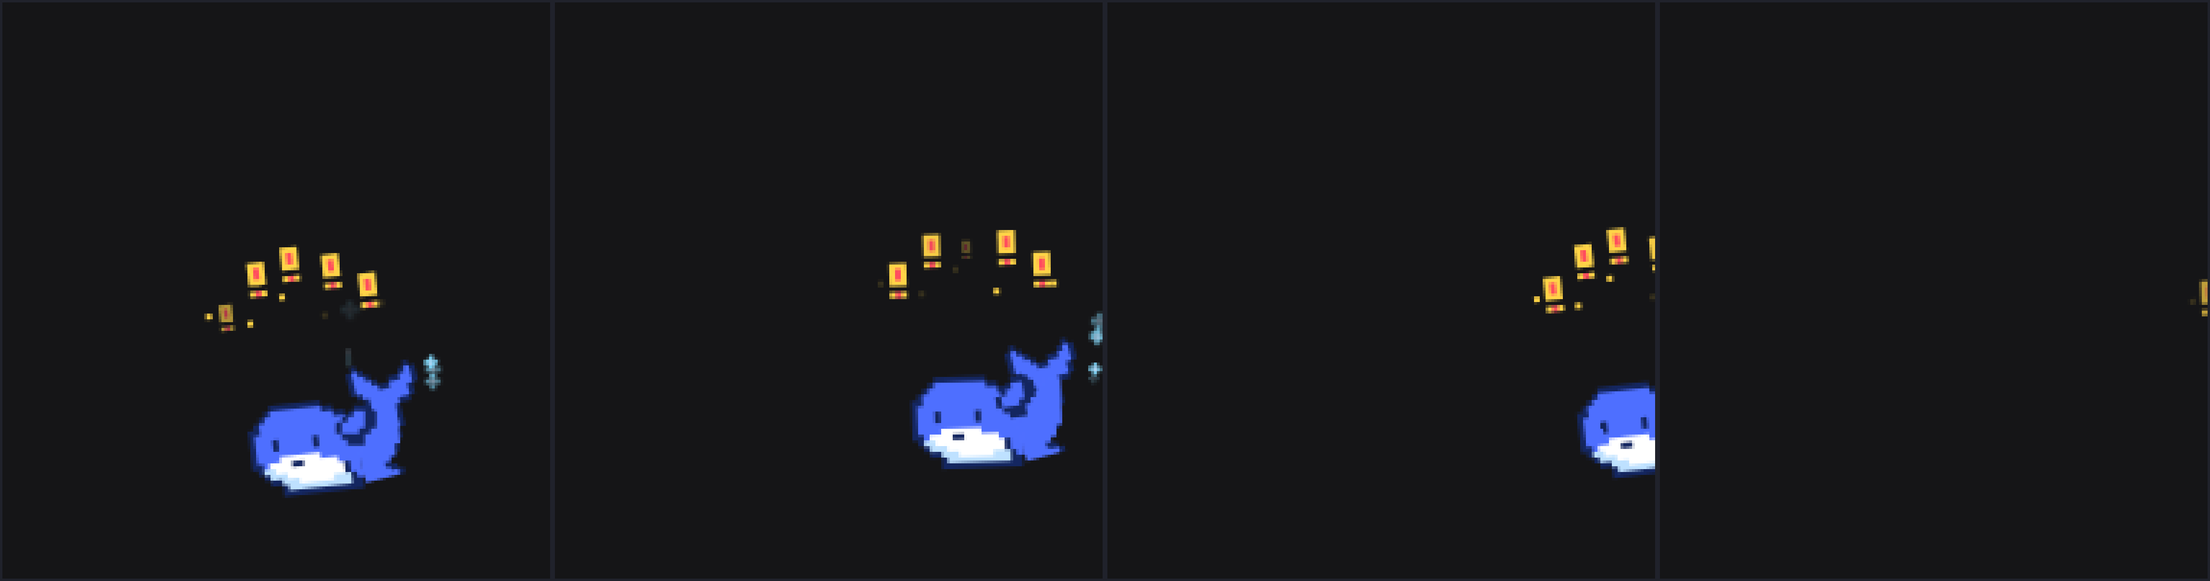
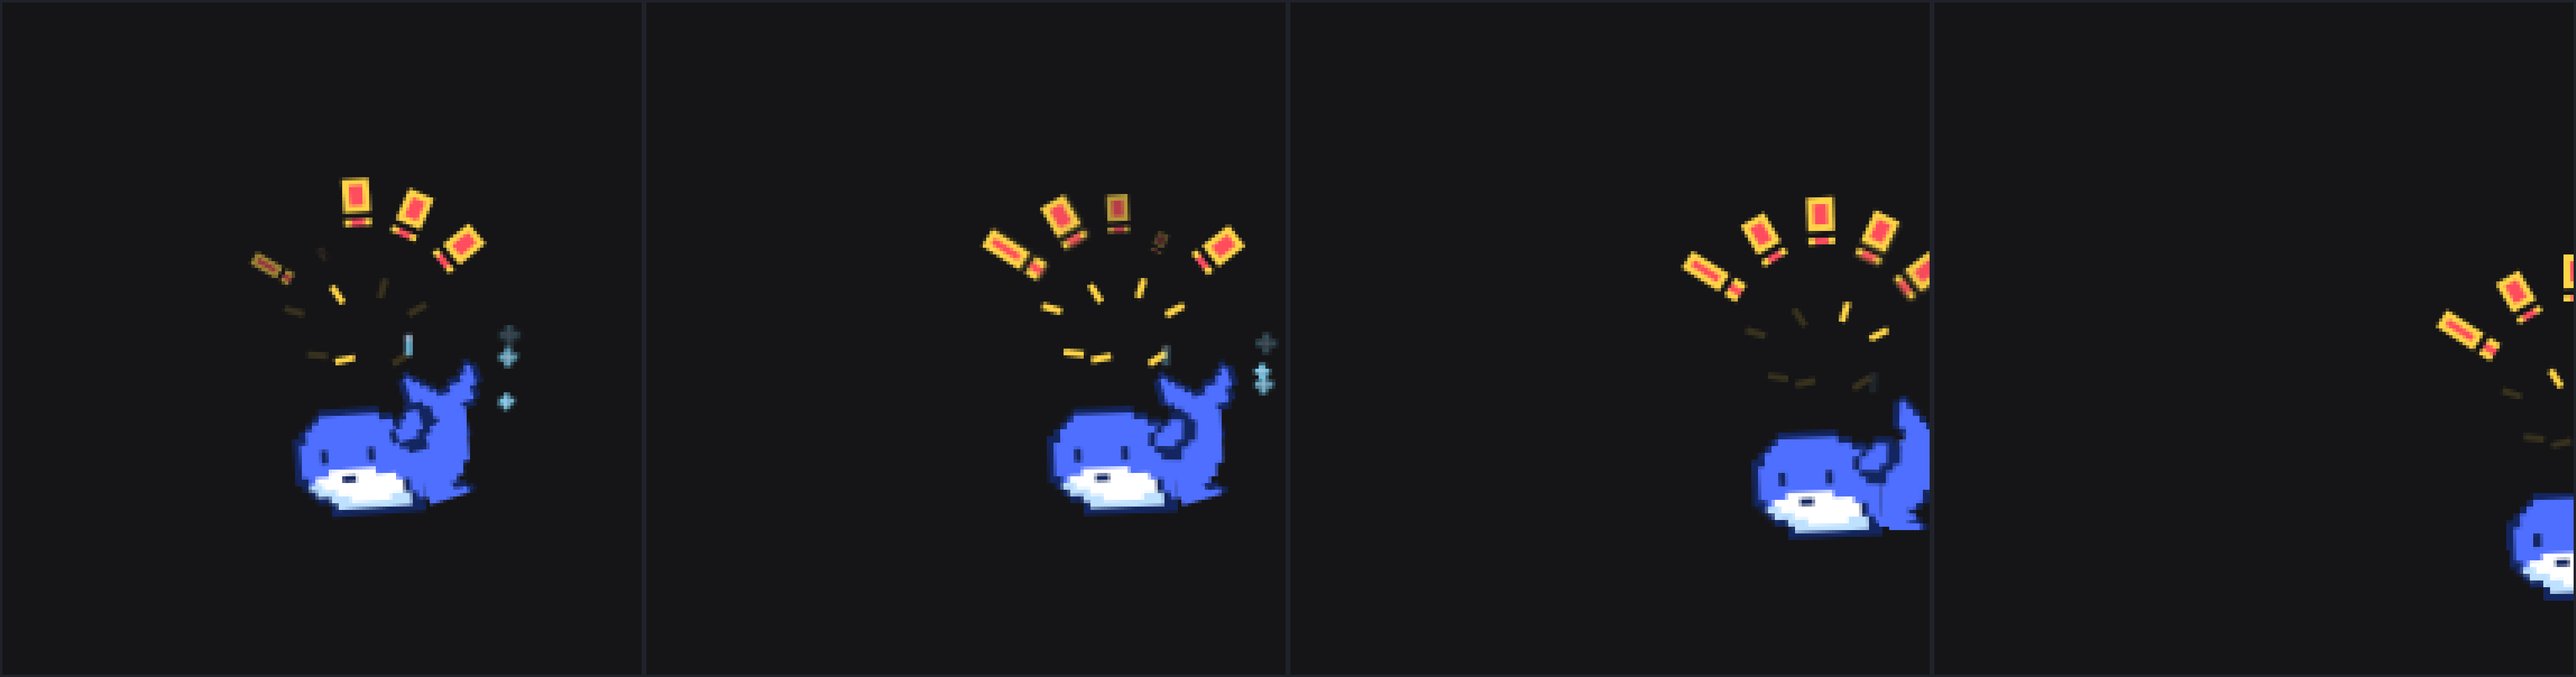
waiting: radial exclamation burst closer to the reference

diff --git a/client.js b/client.js
@@ -232,10 +232,11 @@ const ART = {
 .dsh-whale.is-waiting .dw-alert { animation: dw-alert-pop 1.6s ease-out infinite; animation-delay: var(--ad, 0s); transform-box: fill-box; transform-origin: center; }
 .dsh-whale.is-waiting .dw-alert-spark { animation: dw-alert-spark 1.1s steps(1, end) infinite; animation-delay: var(--ad, 0s); }
 @keyframes dw-alert-pop {
-  0% { opacity: 0; transform: translate(0, 6px) rotate(0deg) scale(0.25); }
-  18% { opacity: 1; transform: translate(0, 0) rotate(0deg) scale(1); }
-  62% { opacity: 1; transform: translate(calc(var(--ax, 0px) * 0.7), calc(var(--ay, 0px) * 0.7)) rotate(var(--ar, 0deg)) scale(1); }
-  100% { opacity: 0; transform: translate(var(--ax, 0px), var(--ay, 0px)) rotate(var(--ar, 0deg)) scale(0.9); }
+  0% { opacity: 0; transform: translate(0, 12px) scale(0.2); }
+  22% { opacity: 1; transform: translate(0, 0) scale(1.05); }
+  30% { transform: translate(0, -1px) scale(1); }
+  72% { opacity: 1; transform: translate(0, -3px) scale(1); }
+  100% { opacity: 0; transform: translate(0, -8px) scale(1.04); }
 }
 @keyframes dw-alert-spark {
   0%, 100% { opacity: 0.15; }
@@ -620,7 +621,7 @@ const ART = {
     <g id="dw-mouth-happy" class="dw-alt dw-on-done dw-on-music dw-on-splash dw-on-hop"><rect x="30" y="76" width="2" height="2" fill="#142660"/><rect x="32" y="78" width="2" height="2" fill="#142660"/><rect x="34" y="76" width="2" height="2" fill="#142660"/></g>
     <g id="dw-mouth-frown" class="dw-alt dw-on-error"><rect x="28" y="78" width="2" height="2" fill="#142660"/><rect x="30" y="76" width="4" height="2" fill="#142660"/><rect x="34" y="78" width="2" height="2" fill="#142660"/></g>
     <g id="dw-mouth-o" class="dw-alt dw-on-poke"><rect x="30" y="76" width="4" height="4" fill="#142660"/></g>
-    <g id="dw-alerts" class="dw-only dw-on-waiting"><rect class="dw-alert-spark" x="6" y="22" width="2" height="2" fill="#FFD447" style="--ad:0.10s"/><rect class="dw-alert-spark" x="20" y="26" width="2" height="2" fill="#FFD447" style="--ad:0.30s"/><rect class="dw-alert-spark" x="32" y="18" width="2" height="2" fill="#FFD447" style="--ad:0.50s"/><rect class="dw-alert-spark" x="46" y="26" width="2" height="2" fill="#FFD447" style="--ad:0.70s"/><rect class="dw-alert-spark" x="66" y="24" width="2" height="2" fill="#FFD447" style="--ad:0.90s"/><rect class="dw-alert-spark" x="24" y="12" width="2" height="2" fill="#FFD447" style="--ad:0.20s"/><g transform="translate(10 16)"><g class="dw-alert" style="--ad:0s;--ax:-3px;--ay:-10px;--ar:-32degdeg"><path d="M0 0h6v8h-6zM0 10h6v2h-6z" fill="#FFD447"/><path d="M2 2h2v4h-2zM2 10h2v2h-2z" fill="#FF4D5E"/></g></g><g transform="translate(22 6)"><g class="dw-alert" style="--ad:0.18s;--ax:-1px;--ay:-16px;--ar:-12degdeg"><path d="M0 0h6v8h-6zM0 10h6v2h-6z" fill="#FFD447"/><path d="M2 2h2v4h-2zM2 10h2v2h-2z" fill="#FF4D5E"/></g></g><g transform="translate(34 2)"><g class="dw-alert" style="--ad:0.36s;--ax:2px;--ay:-18px;--ar:6degdeg"><path d="M0 0h6v8h-6zM0 10h6v2h-6z" fill="#FFD447"/><path d="M2 2h2v4h-2zM2 10h2v2h-2z" fill="#FF4D5E"/></g></g><g transform="translate(48 6)"><g class="dw-alert" style="--ad:0.54s;--ax:5px;--ay:-14px;--ar:22degdeg"><path d="M0 0h6v8h-6zM0 10h6v2h-6z" fill="#FFD447"/><path d="M2 2h2v4h-2zM2 10h2v2h-2z" fill="#FF4D5E"/></g></g><g transform="translate(60 14)"><g class="dw-alert" style="--ad:0.72s;--ax:8px;--ay:-8px;--ar:40degdeg"><path d="M0 0h6v8h-6zM0 10h6v2h-6z" fill="#FFD447"/><path d="M2 2h2v4h-2zM2 10h2v2h-2z" fill="#FF4D5E"/></g></g></g><g id="dw-wavefin" class="dw-only dw-on-waiting"><path d="M52 58h6v2h-6zM50 60h2v2h-2zM56 60h4v6h-4zM48 62h2v2h-2zM46 64h2v4h-2zM54 66h4v2h-4zM48 68h8v2h-8zM50 70h6v2h-6z" fill="#142660"/><path d="M52 60h4v6h-4zM50 62h2v6h-2zM48 64h2v4h-2zM52 66h2v2h-2z" fill="#4E6FFF"/></g>
+    <g id="dw-alerts" class="dw-only dw-on-waiting"><rect class="dw-alert-spark" x="16" y="26" width="2" height="6" fill="#FFD447" transform="rotate(-70 16 26)" style="--ad:0.20s"/><rect class="dw-alert-spark" x="30" y="20" width="2" height="6" fill="#FFD447" transform="rotate(-30 30 20)" style="--ad:0.00s"/><rect class="dw-alert-spark" x="46" y="18" width="2" height="6" fill="#FFD447" transform="rotate(20 46 18)" style="--ad:0.40s"/><rect class="dw-alert-spark" x="58" y="26" width="2" height="6" fill="#FFD447" transform="rotate(65 58 26)" style="--ad:0.40s"/><rect class="dw-alert-spark" x="36" y="40" width="2" height="6" fill="#FFD447" transform="rotate(80 36 40)" style="--ad:0.10s"/><rect class="dw-alert-spark" x="22" y="40" width="2" height="6" fill="#FFD447" transform="rotate(-80 22 40)" style="--ad:0.20s"/><rect class="dw-alert-spark" x="52" y="40" width="2" height="6" fill="#FFD447" transform="rotate(60 52 40)" style="--ad:0.20s"/><g transform="translate(18 16) rotate(-55)"><g class="dw-alert" style="--ad:0s"><path d="M-3 -20h6v13h-6zM-3 -5h6v4h-6z" fill="#FFD447"/><path d="M-1 -18h2v9h-2zM-1 -5h2v4h-2z" fill="#FF4D5E"/></g></g><g transform="translate(28 8) rotate(-28)"><g class="dw-alert" style="--ad:0.12s"><path d="M-4 -16h8v10h-8zM-4 -4h8v2h-8z" fill="#FFD447"/><path d="M-2 -14h4v6h-4zM-2 -4h4v2h-4z" fill="#FF4D5E"/></g></g><g transform="translate(40 4) rotate(0)"><g class="dw-alert" style="--ad:0.24s"><path d="M-4 -16h8v10h-8zM-4 -4h8v2h-8z" fill="#FFD447"/><path d="M-2 -14h4v6h-4zM-2 -4h4v2h-4z" fill="#FF4D5E"/></g></g><g transform="translate(52 8) rotate(28)"><g class="dw-alert" style="--ad:0.36s"><path d="M-4 -16h8v10h-8zM-4 -4h8v2h-8z" fill="#FFD447"/><path d="M-2 -14h4v6h-4zM-2 -4h4v2h-4z" fill="#FF4D5E"/></g></g><g transform="translate(62 16) rotate(55)"><g class="dw-alert" style="--ad:0.48s"><path d="M-4 -16h8v10h-8zM-4 -4h8v2h-8z" fill="#FFD447"/><path d="M-2 -14h4v6h-4zM-2 -4h4v2h-4z" fill="#FF4D5E"/></g></g></g><g id="dw-wavefin" class="dw-only dw-on-waiting"><path d="M52 58h6v2h-6zM50 60h2v2h-2zM56 60h4v6h-4zM48 62h2v2h-2zM46 64h2v4h-2zM54 66h4v2h-4zM48 68h8v2h-8zM50 70h6v2h-6z" fill="#142660"/><path d="M52 60h4v6h-4zM50 62h2v6h-2zM48 64h2v4h-2zM52 66h2v2h-2z" fill="#4E6FFF"/></g>
     
     
     <g id="dw-hat" class="dw-only dw-on-tool"><path d="M30 36h10v20h-10zM26 38h4v18h-4zM40 38h4v18h-4zM22 40h4v16h-4zM44 40h2v16h-2zM18 42h4v14h-4zM46 42h2v14h-2zM16 44h2v12h-2zM48 44h2v12h-2zM14 48h2v8h-2zM50 48h2v8h-2zM12 52h2v4h-2zM52 52h2v4h-2z" fill="#FFFFFF"/><path d="M30 38h10v16h-10zM26 40h4v14h-4zM40 40h4v14h-4zM22 42h4v12h-4zM44 42h2v12h-2zM18 44h4v10h-4zM46 44h2v10h-2zM16 48h2v6h-2zM48 48h2v6h-2zM14 52h2v2h-2zM50 52h2v2h-2z" fill="#FFD447"/><rect x="30" y="38" width="4" height="10" fill="#FFFFFF"/><rect x="42" y="44" width="4" height="8" fill="#F2A20C"/><rect x="14" y="52" width="10" height="2" fill="#F2A20C"/><rect x="14" y="54" width="2" height="2" fill="#F2A20C"/><rect x="48" y="54" width="2" height="2" fill="#F2A20C"/></g>

diff --git a/src/art.js b/src/art.js
@@ -222,10 +222,11 @@ const ART = {
 .dsh-whale.is-waiting .dw-alert { animation: dw-alert-pop 1.6s ease-out infinite; animation-delay: var(--ad, 0s); transform-box: fill-box; transform-origin: center; }
 .dsh-whale.is-waiting .dw-alert-spark { animation: dw-alert-spark 1.1s steps(1, end) infinite; animation-delay: var(--ad, 0s); }
 @keyframes dw-alert-pop {
-  0% { opacity: 0; transform: translate(0, 6px) rotate(0deg) scale(0.25); }
-  18% { opacity: 1; transform: translate(0, 0) rotate(0deg) scale(1); }
-  62% { opacity: 1; transform: translate(calc(var(--ax, 0px) * 0.7), calc(var(--ay, 0px) * 0.7)) rotate(var(--ar, 0deg)) scale(1); }
-  100% { opacity: 0; transform: translate(var(--ax, 0px), var(--ay, 0px)) rotate(var(--ar, 0deg)) scale(0.9); }
+  0% { opacity: 0; transform: translate(0, 12px) scale(0.2); }
+  22% { opacity: 1; transform: translate(0, 0) scale(1.05); }
+  30% { transform: translate(0, -1px) scale(1); }
+  72% { opacity: 1; transform: translate(0, -3px) scale(1); }
+  100% { opacity: 0; transform: translate(0, -8px) scale(1.04); }
 }
 @keyframes dw-alert-spark {
   0%, 100% { opacity: 0.15; }
@@ -610,7 +611,7 @@ const ART = {
     <g id="dw-mouth-happy" class="dw-alt dw-on-done dw-on-music dw-on-splash dw-on-hop"><rect x="30" y="76" width="2" height="2" fill="#142660"/><rect x="32" y="78" width="2" height="2" fill="#142660"/><rect x="34" y="76" width="2" height="2" fill="#142660"/></g>
     <g id="dw-mouth-frown" class="dw-alt dw-on-error"><rect x="28" y="78" width="2" height="2" fill="#142660"/><rect x="30" y="76" width="4" height="2" fill="#142660"/><rect x="34" y="78" width="2" height="2" fill="#142660"/></g>
     <g id="dw-mouth-o" class="dw-alt dw-on-poke"><rect x="30" y="76" width="4" height="4" fill="#142660"/></g>
-    <g id="dw-alerts" class="dw-only dw-on-waiting"><rect class="dw-alert-spark" x="6" y="22" width="2" height="2" fill="#FFD447" style="--ad:0.10s"/><rect class="dw-alert-spark" x="20" y="26" width="2" height="2" fill="#FFD447" style="--ad:0.30s"/><rect class="dw-alert-spark" x="32" y="18" width="2" height="2" fill="#FFD447" style="--ad:0.50s"/><rect class="dw-alert-spark" x="46" y="26" width="2" height="2" fill="#FFD447" style="--ad:0.70s"/><rect class="dw-alert-spark" x="66" y="24" width="2" height="2" fill="#FFD447" style="--ad:0.90s"/><rect class="dw-alert-spark" x="24" y="12" width="2" height="2" fill="#FFD447" style="--ad:0.20s"/><g transform="translate(10 16)"><g class="dw-alert" style="--ad:0s;--ax:-3px;--ay:-10px;--ar:-32degdeg"><path d="M0 0h6v8h-6zM0 10h6v2h-6z" fill="#FFD447"/><path d="M2 2h2v4h-2zM2 10h2v2h-2z" fill="#FF4D5E"/></g></g><g transform="translate(22 6)"><g class="dw-alert" style="--ad:0.18s;--ax:-1px;--ay:-16px;--ar:-12degdeg"><path d="M0 0h6v8h-6zM0 10h6v2h-6z" fill="#FFD447"/><path d="M2 2h2v4h-2zM2 10h2v2h-2z" fill="#FF4D5E"/></g></g><g transform="translate(34 2)"><g class="dw-alert" style="--ad:0.36s;--ax:2px;--ay:-18px;--ar:6degdeg"><path d="M0 0h6v8h-6zM0 10h6v2h-6z" fill="#FFD447"/><path d="M2 2h2v4h-2zM2 10h2v2h-2z" fill="#FF4D5E"/></g></g><g transform="translate(48 6)"><g class="dw-alert" style="--ad:0.54s;--ax:5px;--ay:-14px;--ar:22degdeg"><path d="M0 0h6v8h-6zM0 10h6v2h-6z" fill="#FFD447"/><path d="M2 2h2v4h-2zM2 10h2v2h-2z" fill="#FF4D5E"/></g></g><g transform="translate(60 14)"><g class="dw-alert" style="--ad:0.72s;--ax:8px;--ay:-8px;--ar:40degdeg"><path d="M0 0h6v8h-6zM0 10h6v2h-6z" fill="#FFD447"/><path d="M2 2h2v4h-2zM2 10h2v2h-2z" fill="#FF4D5E"/></g></g></g><g id="dw-wavefin" class="dw-only dw-on-waiting"><path d="M52 58h6v2h-6zM50 60h2v2h-2zM56 60h4v6h-4zM48 62h2v2h-2zM46 64h2v4h-2zM54 66h4v2h-4zM48 68h8v2h-8zM50 70h6v2h-6z" fill="#142660"/><path d="M52 60h4v6h-4zM50 62h2v6h-2zM48 64h2v4h-2zM52 66h2v2h-2z" fill="#4E6FFF"/></g>
+    <g id="dw-alerts" class="dw-only dw-on-waiting"><rect class="dw-alert-spark" x="16" y="26" width="2" height="6" fill="#FFD447" transform="rotate(-70 16 26)" style="--ad:0.20s"/><rect class="dw-alert-spark" x="30" y="20" width="2" height="6" fill="#FFD447" transform="rotate(-30 30 20)" style="--ad:0.00s"/><rect class="dw-alert-spark" x="46" y="18" width="2" height="6" fill="#FFD447" transform="rotate(20 46 18)" style="--ad:0.40s"/><rect class="dw-alert-spark" x="58" y="26" width="2" height="6" fill="#FFD447" transform="rotate(65 58 26)" style="--ad:0.40s"/><rect class="dw-alert-spark" x="36" y="40" width="2" height="6" fill="#FFD447" transform="rotate(80 36 40)" style="--ad:0.10s"/><rect class="dw-alert-spark" x="22" y="40" width="2" height="6" fill="#FFD447" transform="rotate(-80 22 40)" style="--ad:0.20s"/><rect class="dw-alert-spark" x="52" y="40" width="2" height="6" fill="#FFD447" transform="rotate(60 52 40)" style="--ad:0.20s"/><g transform="translate(18 16) rotate(-55)"><g class="dw-alert" style="--ad:0s"><path d="M-3 -20h6v13h-6zM-3 -5h6v4h-6z" fill="#FFD447"/><path d="M-1 -18h2v9h-2zM-1 -5h2v4h-2z" fill="#FF4D5E"/></g></g><g transform="translate(28 8) rotate(-28)"><g class="dw-alert" style="--ad:0.12s"><path d="M-4 -16h8v10h-8zM-4 -4h8v2h-8z" fill="#FFD447"/><path d="M-2 -14h4v6h-4zM-2 -4h4v2h-4z" fill="#FF4D5E"/></g></g><g transform="translate(40 4) rotate(0)"><g class="dw-alert" style="--ad:0.24s"><path d="M-4 -16h8v10h-8zM-4 -4h8v2h-8z" fill="#FFD447"/><path d="M-2 -14h4v6h-4zM-2 -4h4v2h-4z" fill="#FF4D5E"/></g></g><g transform="translate(52 8) rotate(28)"><g class="dw-alert" style="--ad:0.36s"><path d="M-4 -16h8v10h-8zM-4 -4h8v2h-8z" fill="#FFD447"/><path d="M-2 -14h4v6h-4zM-2 -4h4v2h-4z" fill="#FF4D5E"/></g></g><g transform="translate(62 16) rotate(55)"><g class="dw-alert" style="--ad:0.48s"><path d="M-4 -16h8v10h-8zM-4 -4h8v2h-8z" fill="#FFD447"/><path d="M-2 -14h4v6h-4zM-2 -4h4v2h-4z" fill="#FF4D5E"/></g></g></g><g id="dw-wavefin" class="dw-only dw-on-waiting"><path d="M52 58h6v2h-6zM50 60h2v2h-2zM56 60h4v6h-4zM48 62h2v2h-2zM46 64h2v4h-2zM54 66h4v2h-4zM48 68h8v2h-8zM50 70h6v2h-6z" fill="#142660"/><path d="M52 60h4v6h-4zM50 62h2v6h-2zM48 64h2v4h-2zM52 66h2v2h-2z" fill="#4E6FFF"/></g>
     
     
     <g id="dw-hat" class="dw-only dw-on-tool"><path d="M30 36h10v20h-10zM26 38h4v18h-4zM40 38h4v18h-4zM22 40h4v16h-4zM44 40h2v16h-2zM18 42h4v14h-4zM46 42h2v14h-2zM16 44h2v12h-2zM48 44h2v12h-2zM14 48h2v8h-2zM50 48h2v8h-2zM12 52h2v4h-2zM52 52h2v4h-2z" fill="#FFFFFF"/><path d="M30 38h10v16h-10zM26 40h4v14h-4zM40 40h4v14h-4zM22 42h4v12h-4zM44 42h2v12h-2zM18 44h4v10h-4zM46 44h2v10h-2zM16 48h2v6h-2zM48 48h2v6h-2zM14 52h2v2h-2zM50 52h2v2h-2z" fill="#FFD447"/><rect x="30" y="38" width="4" height="10" fill="#FFFFFF"/><rect x="42" y="44" width="4" height="8" fill="#F2A20C"/><rect x="14" y="52" width="10" height="2" fill="#F2A20C"/><rect x="14" y="54" width="2" height="2" fill="#F2A20C"/><rect x="48" y="54" width="2" height="2" fill="#F2A20C"/></g>
